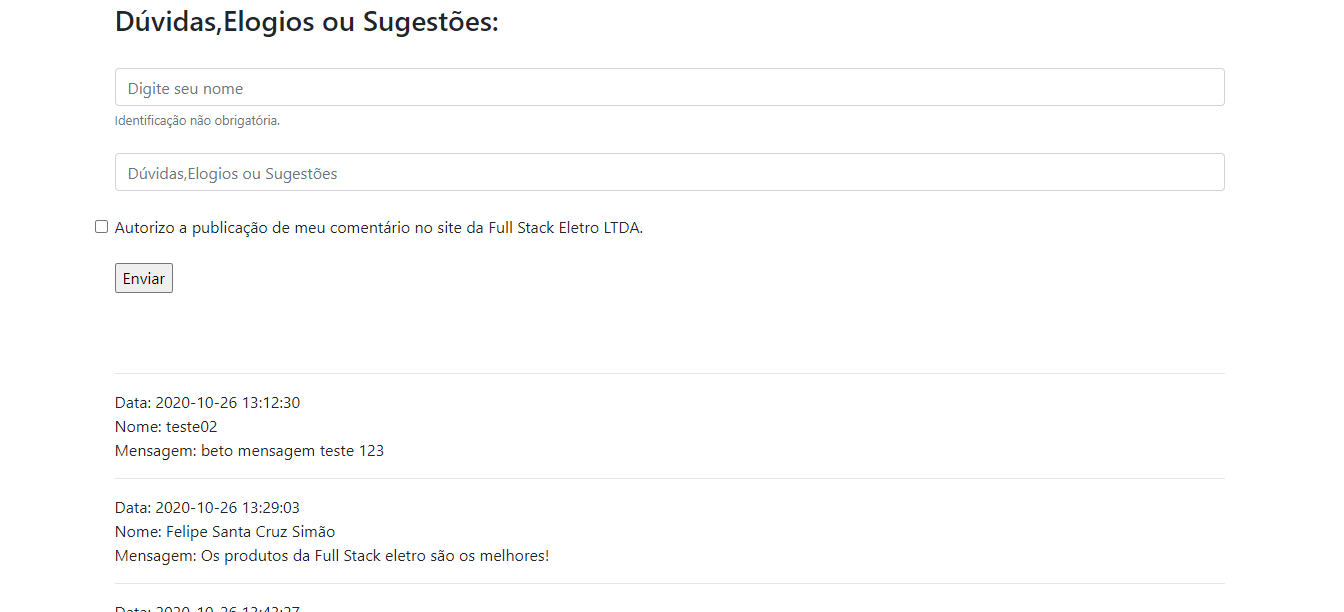
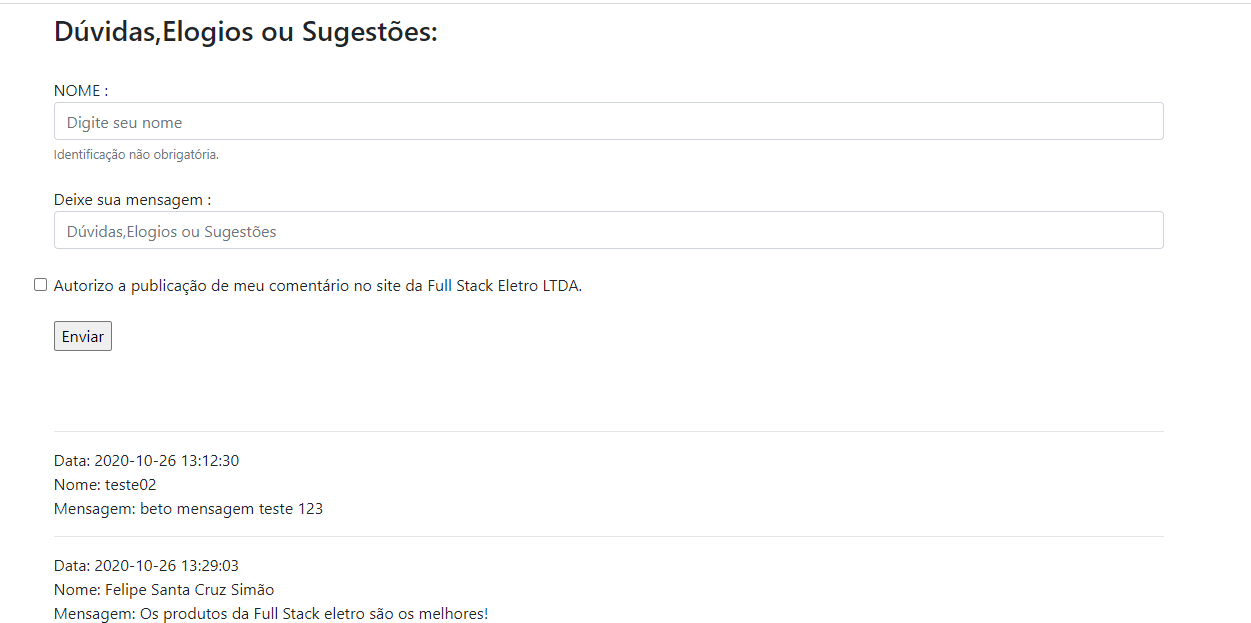
subindo arquivos e programas do Git para o GitHub

diff --git a/BOOTSTRAP Projeto Recode Pro/contato.php b/BOOTSTRAP Projeto Recode Pro/contato.php
@@ -83,19 +83,22 @@ if (isset($_POST['nome']) && isset($_POST['msg'])) {
   </div>
   <br><br>
 
-  <!--FAZENDO NOVO FORMULÁRIO -->
-   <div class="container">
+ <!--FAZENDO NOVO FORMULÁRIO -->
+ <div class="container">
   <form action="" method="post">
   <h3>Dúvidas,Elogios ou Sugestões:</h3><br>
 <div class="form-group">
+    NOME :<br>
     <input type="text" name="nome" class="form-control" aria-describedby="nome" placeholder="Digite seu nome">
     <small id="nome" class="form-text text-muted">Identificação não obrigatória.</small><br>
+    Deixe sua mensagem :
     <input type="text" class="form-control" name="msg" placeholder="Dúvidas,Elogios ou Sugestões"><br>
     <input type="checkbox" class="form-check-input" id="exampleCheck1">
     <label class="form-check-label" for="exampleCheck1">Autorizo a publicação de meu comentário no site da Full Stack Eletro LTDA.</label><br><br>
     <input type="submit" name="submit" value="Enviar"><br>
   </div>
 </form>
+  
   
 
 <br><br><hr>
